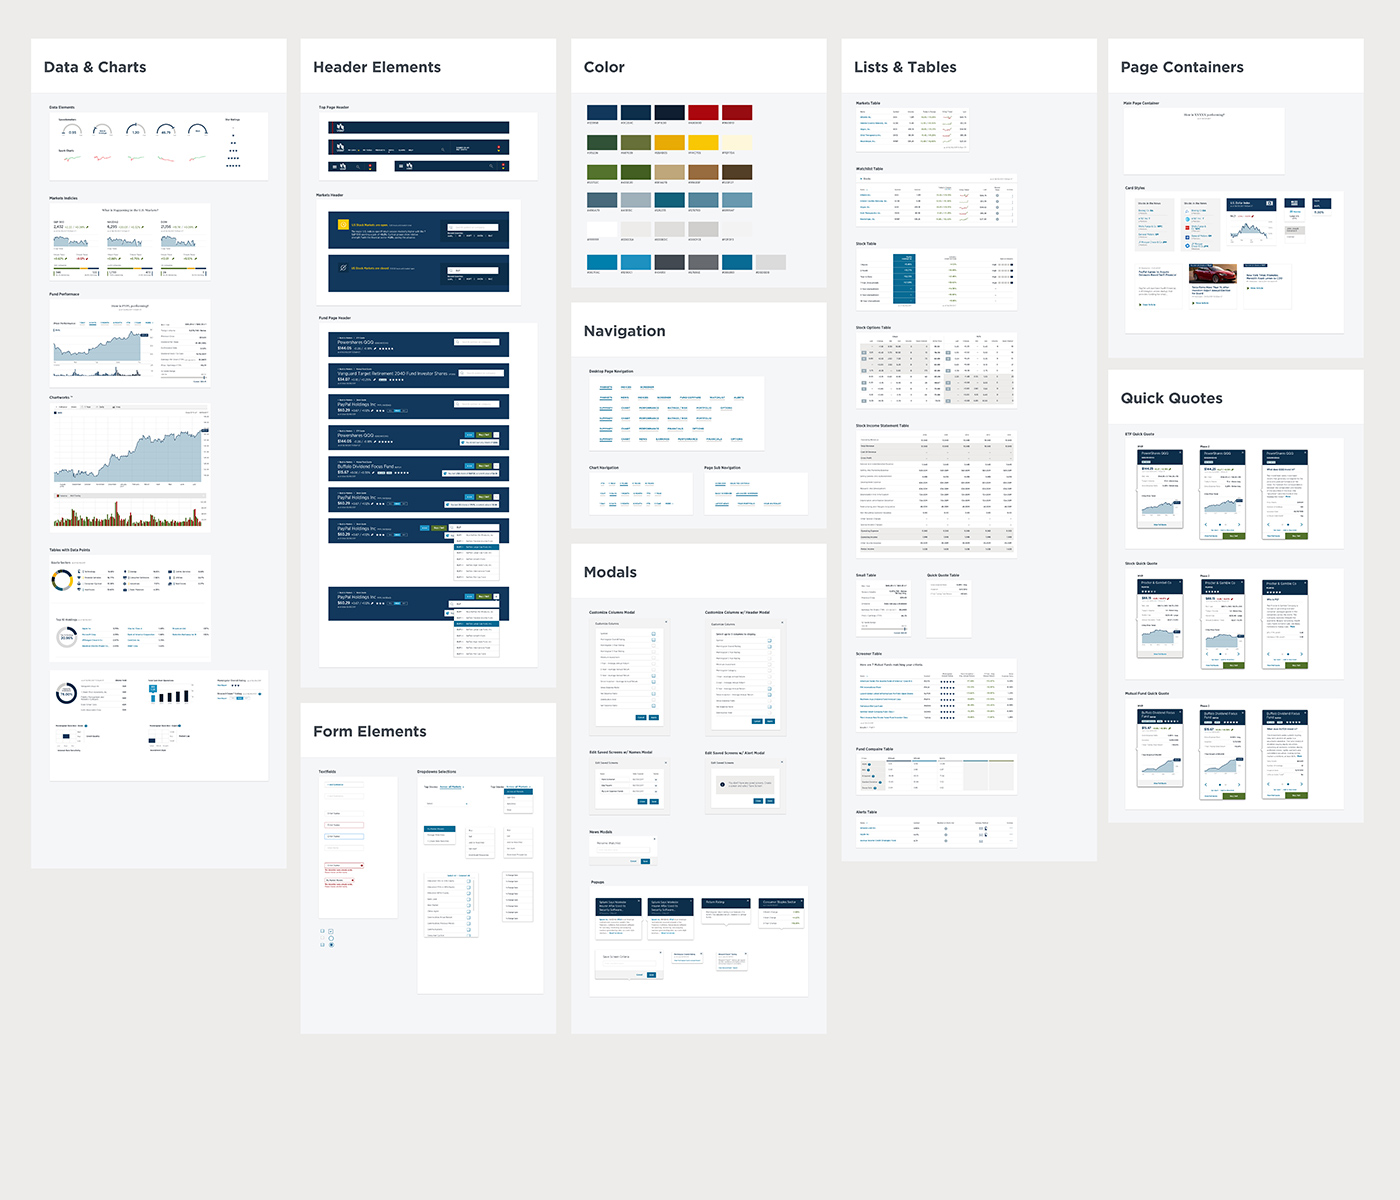
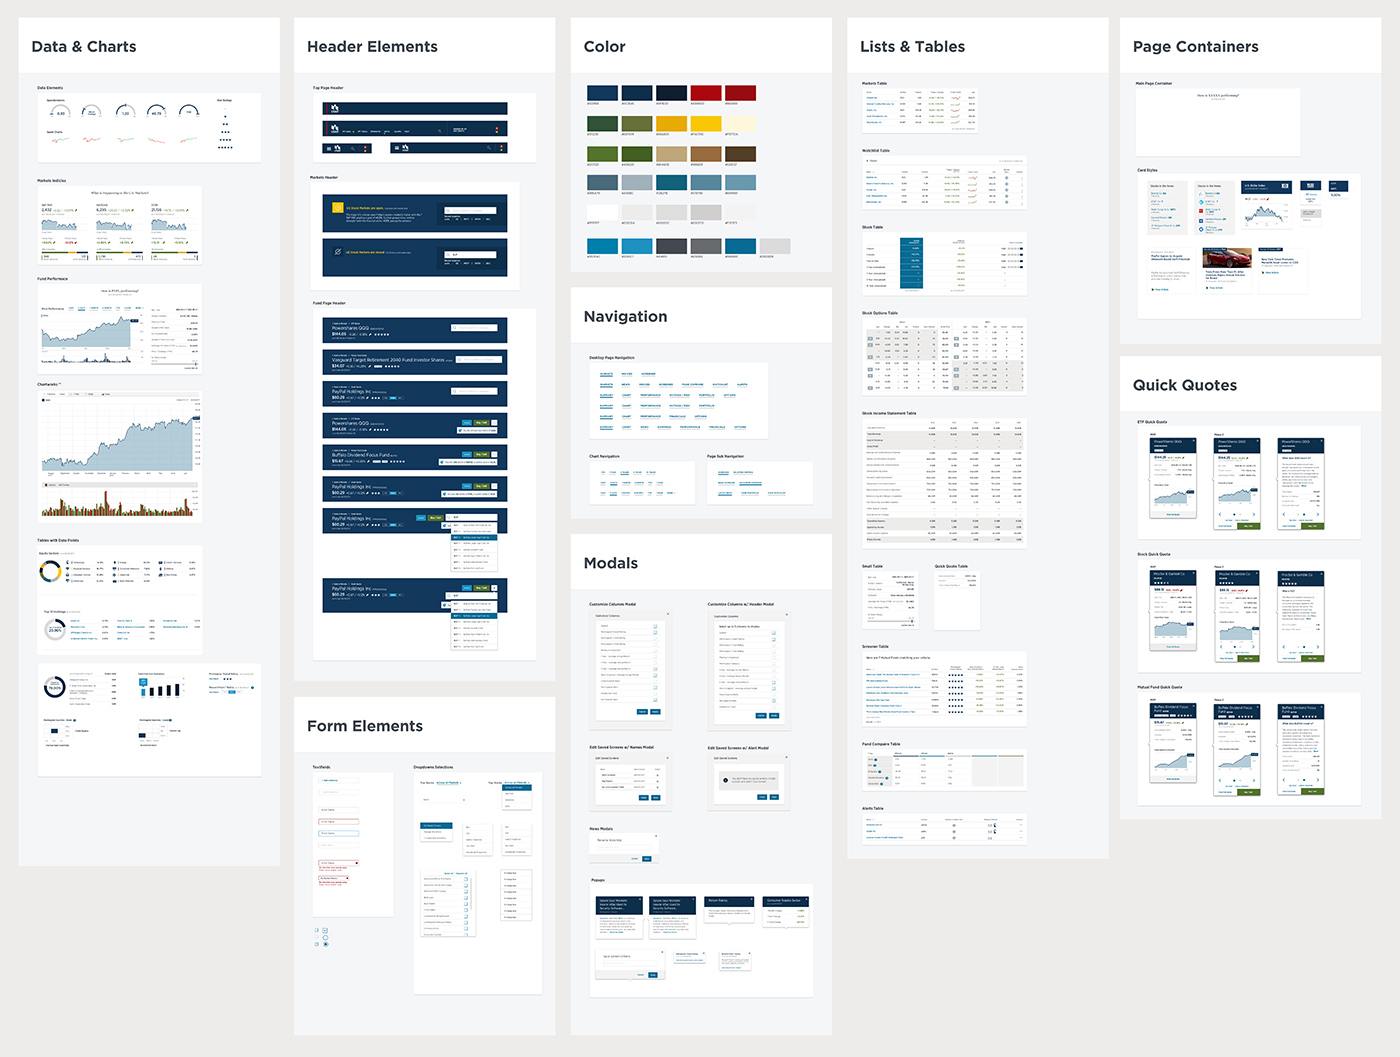
images updates

diff --git a/css/styles.css b/css/styles.css
@@ -83,7 +83,7 @@ a .view-sm-biz:hover {
   font-size: 15px;
   font-style: italic;
   color: #888;
-  padding-top: 3px;
+  padding-top: 7px;
   letter-spacing: 0.4px;
 }
 

diff --git a/usaa.php b/usaa.php
@@ -90,7 +90,7 @@
 
       <div class="row" style="margin-top: 10%">
         <div class="twelve column">
-          <img class="u-full-width" src="images/ihsmarkit/ihsmarkit-nasdaq.jpg">
+          <img class="u-full-width" src="images/usaa/usaa-header.png">
         </div>
       </div>
 
@@ -111,7 +111,7 @@
             <h5>Investing can be difficult. Especially for the novice.</h5>
             <p>When USAA asked us to rethink their current experience we knew it had to appeal to the novice and the power user. This is a difficult task. It needed to be approachable, but not insulting, and still robust.</p>
 
-            <p>Working together with their UX team, we redesigned quote pages for Stocks, ETFs and Mutual Funds. We also worked on robust tools like Alerts, Watchlists, and Screeners—even supplemental screens like quick quote popups.</p>
+            <p>Working together with their UX team, we redesigned quote pages for Stocks, ETFs and Mutual Funds. We also worked on robust tools like Alerts, Watchlists, Fund Comparison, and Screeners—even supplemental screens like quick quote popups.</p>
 
             <p>Including main pages, workflows, interstitial and edge cases the number of screens neared two hundred. All screens included up-to-date Morningstar data and trade capabilities. They were built as React modules and delivered to USAA as F2 Apps, allowing control over content and placement. </p>
 
@@ -141,29 +141,27 @@
         </div>
       </div>
       <br/>
+      <div class="row" style="margin-top: 10%">
       <div class="twelve column">
-          <img class="u-full-width" src="images/usaa/usaa-screener.jpg">
+          <img class="u-full-width" src="images/usaa/usaa-screeners.jpg">
         </div>
       </div>
       <br/>
       <div class="row" style="margin-top: 4%">
         <div class="one-half column">
-          <img class="u-full-width" src="images/ihsmarkit/ihsmarkit-01.jpg">
+          <img class="u-full-width" src="images/usaa/usaa-mf-qq.jpg">
         </div>
         <div class="one-half column">
-          <img class="u-full-width" src="images/ihsmarkit/ihsmarkit-03.jpg">
+          <img class="u-full-width" src="images/usaa/usaa-mf-qq2.jpg">
         </div>
       </div>
       <br/>
       <div class="row" style="margin-top: 10%">
-        <div class="one-half column">
-          <img class="u-full-width" src="images/ihsmarkit/ihsmarkit-04.jpg">
-        </div>
-        <div class="one-half column">
-          <img class="u-full-width" src="images/ihsmarkit/ihsmarkit-05.jpg">
+      <div class="twelve column">
+          <img class="u-full-width" src="images/usaa/usaa-fundcompare.jpg">
         </div>
       </div>
-      
+      <br/>
       <div class="row" style="margin-top: 10%">
         <div class="twelve column work-quote">
             <h4>"Christopher is a talented designer who's always thinking about the business needs around the design."</h4>
@@ -172,8 +170,8 @@
       </div>
 
       <div class="row" style="margin-top: 10%">
-        <div class="twelve column">
-          <img class="u-full-width" src="images/ihsmarkit/ihsmarkit-nasdaq.jpg">
+      <div class="twelve column">
+          <img class="u-full-width" src="images/usaa/usaa-fundcompare.jpg">
         </div>
       </div>
       <!-- End Grid Demo -->
